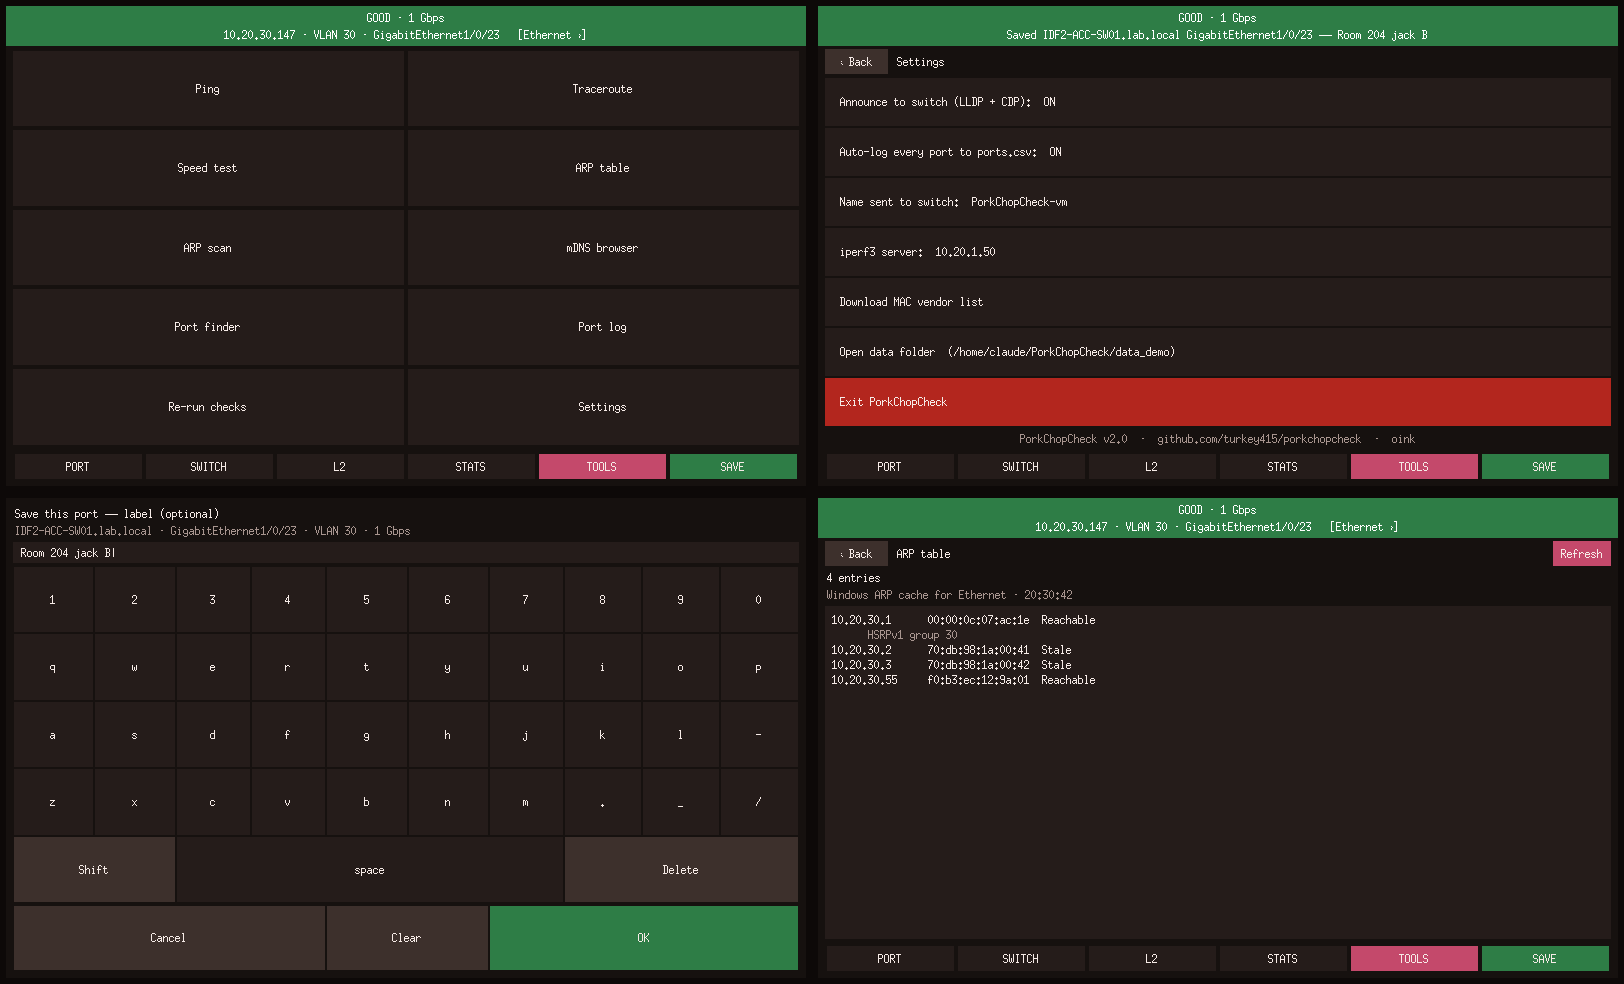
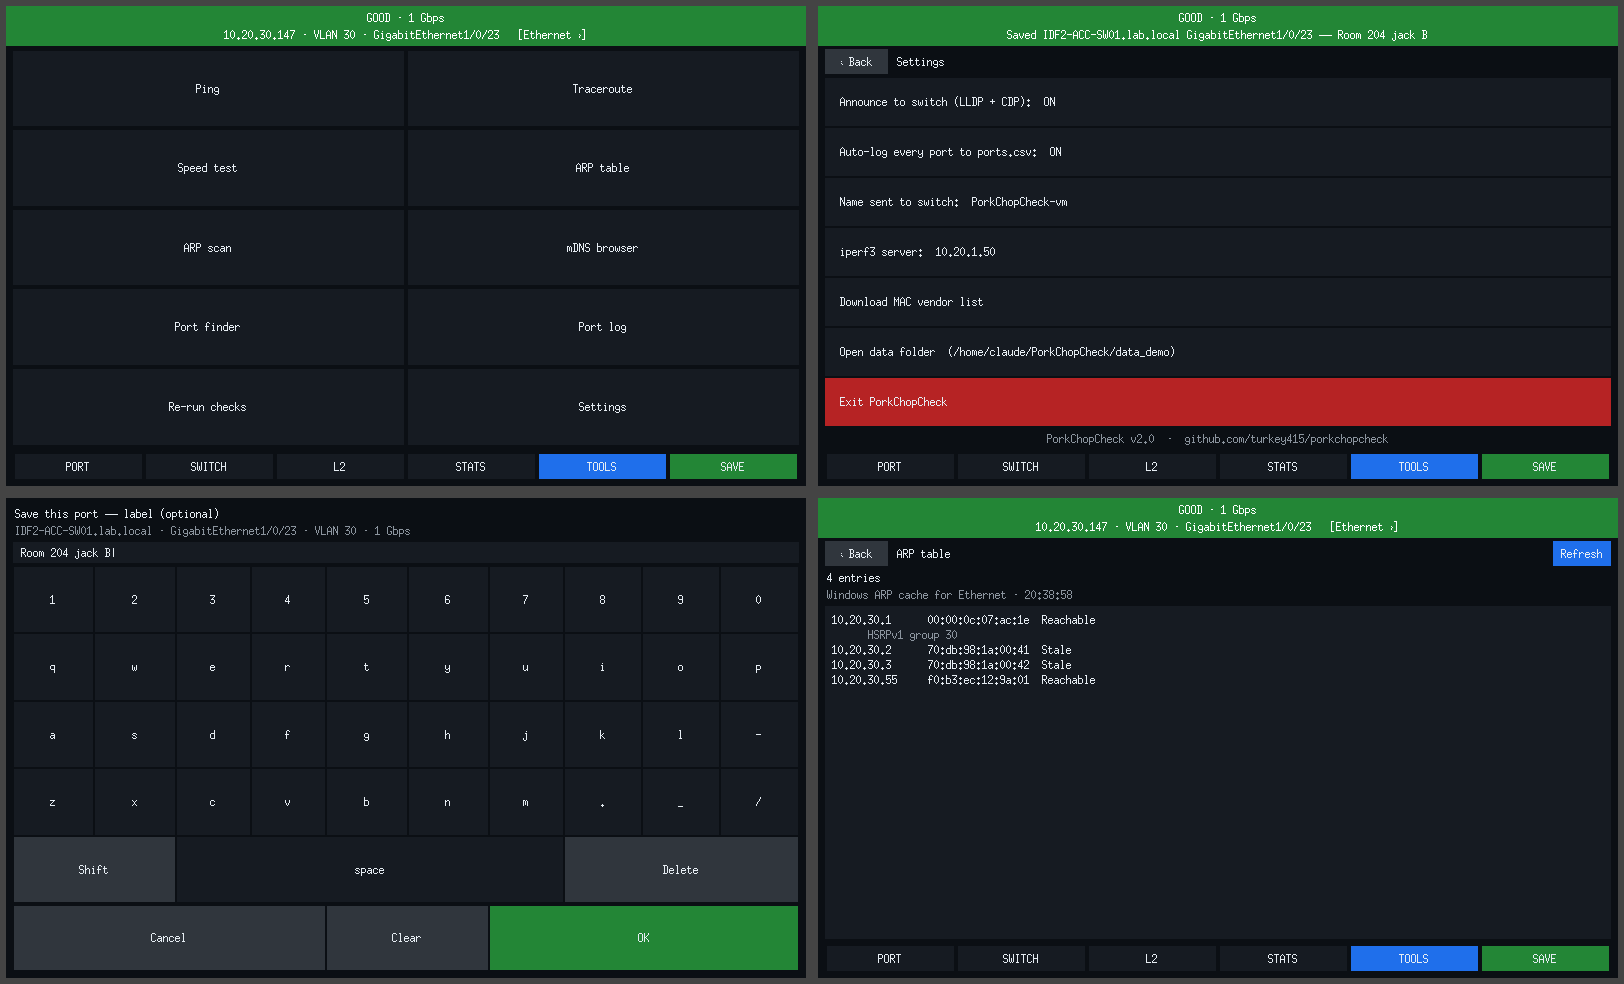
Back to the original black theme; keep the PorkChopCheck name
Drops the cast-iron browns, pink accents and theme flavor text, which
were hard on the eyes. Colors match the original PortCheck palette.

Claude-Session: https://claude.ai/code/session_01QAHntVcUquc6tcsGwVkKgk

Changed region(s): [[0.0, 0.0, 1.0, 1.0], [0.7389, 0.4268, 0.8313, 0.4573], [0.6466, 0.4268, 0.6773, 0.4573]]

diff --git a/porkchopcheck.py b/porkchopcheck.py
@@ -63,19 +63,19 @@ def pick_data_dir():
 DATA_DIR = pick_data_dir()
 
 # ---------------------------------------------------------------- colors
-BG = "#16110f"        # cast-iron black
-PANEL = "#251c1a"     # seasoned skillet
-FG = "#f6ebe7"
-DIM = "#a8958f"
-GREEN = "#2e7d46"
-AMBER = "#a8620e"     # caramelized
-RED = "#b3261e"
-PINK = "#c4496b"      # pork pink (accent)
-GREY = "#3d302c"
-OK = "#5cc97a"
-WARN = "#f0b04c"
-BAD = "#ff6b5e"
-HDR = "#ff9fb2"       # light pink headers
+BG = "#0b0f14"
+PANEL = "#161b22"
+FG = "#e6edf3"
+DIM = "#8b949e"
+GREEN = "#238636"
+AMBER = "#9e6a03"
+RED = "#b62324"
+BLUE = "#1f6feb"
+GREY = "#30363d"
+OK = "#3fb950"
+WARN = "#e3b341"
+BAD = "#f85149"
+HDR = "#79c0ff"
 
 PENDING = "pending"
 
@@ -1523,7 +1523,7 @@ class ToolView(tk.Frame):
             side="left", padx=ui.pad)
         self.act = []
         for text, cmd in reversed(actions):
-            b = ui.button(hdr, text, cmd, ui.sz["small"], bg=PINK, padx=ui.pad)
+            b = ui.button(hdr, text, cmd, ui.sz["small"], bg=BLUE, padx=ui.pad)
             b.pack(side="right", padx=(ui.pad // 2, 0))
             self.act.insert(0, b)
         self.summary = tk.Label(self, text="", bg=BG, fg=FG, anchor="w",
@@ -1539,7 +1539,7 @@ class ToolView(tk.Frame):
         self.list.pack(fill="both", expand=True, pady=(ui.pad // 2, 0))
         self._sum = None
 
-    def set_action(self, i, text, bg=PINK):
+    def set_action(self, i, text, bg=BLUE):
         b = self.act[i]
         if b.cget("text") != text or b.cget("bg") != bg:
             b.config(text=text, bg=bg)
@@ -1667,7 +1667,7 @@ class UI:
         # banner (tap = next adapter)
         self.banner = tk.Frame(root, bg=GREY)
         self.banner.pack(side="top", fill="x")
-        self.b_big = tk.Label(self.banner, text="HEATING THE SKILLET…", bg=GREY, fg="white",
+        self.b_big = tk.Label(self.banner, text="STARTING", bg=GREY, fg="white",
                               font=self.font(self.sz["big"], "bold"))
         self.b_big.pack(fill="x", pady=(self.pad // 2, 0))
         self.b_sub = tk.Label(self.banner, text="", bg=GREY, fg="white", font=self.font(self.sz["sub"]))
@@ -1832,7 +1832,7 @@ class UI:
             b.grid(row=r, column=0, sticky="nsew", pady=self.pad // 4)
             self.set_btns[key] = b
         lst.columnconfigure(0, weight=1)
-        tk.Label(page, text=f"PorkChopCheck v{VERSION}  ·  github.com/turkey415/porkchopcheck  ·  oink",
+        tk.Label(page, text=f"PorkChopCheck v{VERSION}  ·  github.com/turkey415/porkchopcheck",
                  bg=BG, fg=DIM, font=self.font(self.sz["rowsm"])).pack(fill="x", pady=(self.pad // 2, 0))
 
     # ---------------------------------------------------------- navigation
@@ -1845,7 +1845,7 @@ class UI:
         self.cur = name
         active = name if name in self.MAIN else "TOOLS"
         for n, b in self.nav_btns.items():
-            b.config(bg=PINK if n == active else (GREEN if n == "SAVE" else PANEL))
+            b.config(bg=BLUE if n == active else (GREEN if n == "SAVE" else PANEL))
 
     def show_tools(self):
         self.show("TOOLS")
@@ -1978,7 +1978,7 @@ class UI:
         if not s["sel"]:
             color, big, sub = GREY, "NO ETHERNET ADAPTER", "Plug in a USB NIC or check drivers"
         elif s["blink"]["running"]:
-            color, big, sub = PINK, "PORT FINDER ON", "Watch the switch for the blinking LED"
+            color, big, sub = BLUE, "PORT FINDER ON", "Watch the switch for the blinking LED"
         elif up is None:
             color, big, sub = GREY, "CHECKING…", s["sel"]
         elif not up:
@@ -1996,7 +1996,7 @@ class UI:
                 color, big = AMBER, "WAITING FOR IP"
                 sub = f"Link {N.fmt_speed(s['speed_mbps'])}" + (f" · {waited:.0f}s" if waited else "")
         elif s["gw_ms"] == PENDING and gw:
-            color, big, sub = PINK, "TESTING…", f"{ip} · pinging gateway"
+            color, big, sub = BLUE, "TESTING…", f"{ip} · pinging gateway"
         elif gw and s["gw_ms"] is None:
             color, big, sub = AMBER, "GATEWAY NOT REPLYING", f"{ip} · wrong VLAN?"
         elif len(dhcp_servers(s)) > 1:
@@ -2169,7 +2169,7 @@ class UI:
     # ---------------------------------------------------------- tool renders
     def render_ping(self, s, v, now):
         p = s["ping"]
-        v.set_action(0, "Stop" if p["running"] else "Start", RED if p["running"] else PINK)
+        v.set_action(0, "Stop" if p["running"] else "Start", RED if p["running"] else BLUE)
         tgt = p["target"] or "(no address yet)"
         if p["sent"]:
             loss = 100 * (p["sent"] - p["recv"]) / p["sent"]
@@ -2206,7 +2206,7 @@ class UI:
 
     def render_trace(self, s, v, now):
         t = s["trace"]
-        v.set_action(0, "Stop" if t["running"] else "Run", RED if t["running"] else PINK)
+        v.set_action(0, "Stop" if t["running"] else "Run", RED if t["running"] else BLUE)
         state = "running…" if t["running"] else ("done" if t["hops"] else "tap Run")
         v.set_summary(f"{t['label']}: {t['target'] or '—'}", FG,
                       f"{state} · up to 20 hops, sourced from the Ethernet port")
@@ -2250,7 +2250,7 @@ class UI:
 
     def render_arpscan(self, s, v, now):
         a = s["arp_scan"]
-        v.set_action(0, "Stop" if a["running"] else "Scan", RED if a["running"] else PINK)
+        v.set_action(0, "Stop" if a["running"] else "Scan", RED if a["running"] else BLUE)
         found = a["found"]
         dups = {ip: m for ip, m in found.items() if len(m) > 1}
         if a["net"]:
@@ -2281,7 +2281,7 @@ class UI:
         m = self.be.mdns.snapshot()
         n_inst = len(m["inst"])
         n_dev = len(m["responders"])
-        v.set_action(0, "Scanning" if m["running"] else "Scan", GREY if m["running"] else PINK)
+        v.set_action(0, "Scanning" if m["running"] else "Scan", GREY if m["running"] else BLUE)
         if m["error"]:
             v.set_summary("mDNS error", BAD, m["error"])
         elif m["running"] and not n_inst:
@@ -2298,7 +2298,7 @@ class UI:
 
     def render_blink(self, s, v, now):
         b = s["blink"]
-        v.set_action(0, "Stop" if b["running"] else "Start", RED if b["running"] else PINK)
+        v.set_action(0, "Stop" if b["running"] else "Start", RED if b["running"] else BLUE)
         if b["running"]:
             v.set_summary(f"Blinking… {b['cycles']} cycles", WARN,
                           "The port LED goes dark ~1.5 s every 4.5 s. Tap Stop when you find it.")
@@ -2328,7 +2328,7 @@ class UI:
                     r.get("poe", ""), f"802.1X {r['dot1x']}" if r.get("dot1x") not in ("", "—", "Not detected") else ""]
             out.append(("  ·  ".join(b for b in bits if b), FG, "row"))
             out.append((f"last {r.get('last_seen', '')}  ·  first {r.get('first_seen', '')}", DIM, "dim"))
-        v.list.set_rows(out, "Nothing on the plate yet. Ports are logged automatically once CDP/LLDP names "
+        v.list.set_rows(out, "Nothing yet. Ports are logged automatically once CDP/LLDP names "
                              "the switch port, or tap SAVE to log one with a label.")
 
 

diff --git a/README.md b/README.md
@@ -2,8 +2,6 @@
 
 A great tool to check your network and ports on your network. CDP, LLDP, and so much more.
 
-Cooked up in a cast-iron dark theme with pork-pink accents. Status colors stay plain green, amber, and red, so a bad port never looks cute.
-
 
 Full-screen, big-text, touch-friendly switch-port tester for a small Windows 11 box.
 
